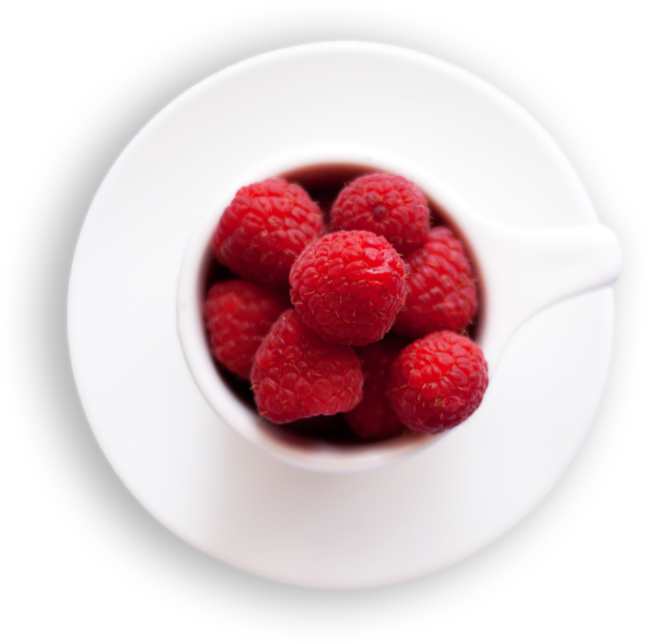
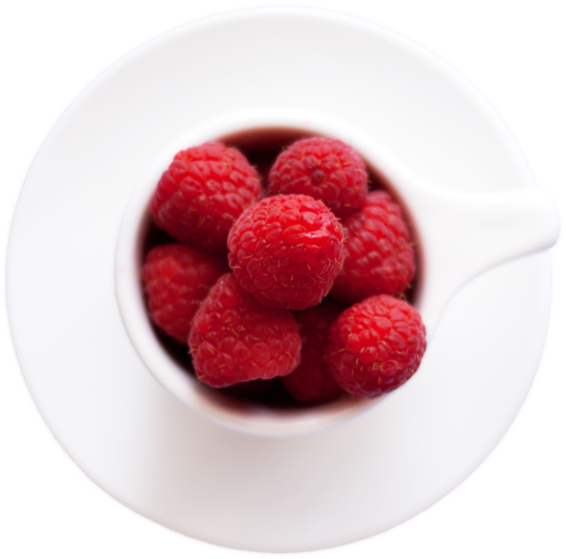
add-section-subscribe-us

diff --git a/index.html b/index.html
@@ -30,7 +30,7 @@
 						<li class="main-menu__item"><a class="main-menu__link" href="#about-us">About</a></li>
 						<li class="main-menu__item"><a class="main-menu__link" href="#service">Services</a></li>
 						<li class="main-menu__item"><a class="main-menu__link" href="#gallery">Gallery</a></li>
-						<li class="main-menu__item"><a class="main-menu__link" href="#">Blog</a></li>
+						<li class="main-menu__item"><a class="main-menu__link" href="#subscribe">Blog</a></li>
 						<li class="main-menu__item"><a class="main-menu__link" href="#">Contact</a></li>
 					</ul>
 				</div>
@@ -53,14 +53,14 @@
 						<div class="about-us__content">
 							<h2 class="about-us__title">About Us</h2>
 							<p class="about-us__text">Abore Cahee magna aliqua. Ut enim ad minim veniam, quis nostrud exercitation ullamco laboris nisi ut aliquip ex ea commodo consequat. Duis aute irure dolor in reprehenderit in voluptate velit esse cillum.
-							<p class="about-us__text">Nim id est laborum. Sed ut perspiciatis unde omnis iste natus error sit voluptatem accusantium doloremque laudantium, totam rem aperiam, eaque ipsa quae ab illo inventore.</p>
+								<p class="about-us__text">Nim id est laborum. Sed ut perspiciatis unde omnis iste natus error sit voluptatem accusantium doloremque laudantium, totam rem aperiam, eaque ipsa quae ab illo inventore.</p>
+							</div>
 						</div>
 					</div>
-				</div>
-			</section>	
+				</section>	
 
-			<section id="service" class="service">
-				<div class="container"> 
+				<section id="service" class="service">
+					<div class="container"> 
 						<div class="service__row">
 							<div class="service__item">
 								<button class="button service__button">
@@ -86,26 +86,37 @@
 							</div>
 						</div>
 					</div>
-			</section>
+				</section>
 
-			<section id="gallery" class="gallery">
-				<div class="container">
-				<h2 class="gallery__title">Gallery</h2>
-				<p class="gallery__lead">Consectetur adipisicing elit, sed do eiusmod tempor incididunt ut labore et dolore magna aliqua. Ut enim ad minim veniam, quis nostrud exercitation ullamco laboris nisi ut aliquip ex ea commodo consequat.</p>
-				<div class="gallery-wrap">
-					<div class="gallery-wrap__row">
-						<div class="gallery-wrap__img width-8-12"><img class="img-responsive" src="img/img.png" alt="peach"></div>
-						<div class="gallery-wrap__img width-4-12"><img class="img-responsive" src="img/img2.png" alt="bilberry"></div>
-						<div class="gallery-wrap__img width-1-3"><img class="img-responsive" src="img/img3.png" alt="blackberry"></div>
+				<section id="gallery" class="gallery">
+					<div class="container">
+						<h2 class="gallery__title">Gallery</h2>
+						<p class="gallery__lead">Consectetur adipisicing elit, sed do eiusmod tempor incididunt ut labore et dolore magna aliqua. Ut enim ad minim veniam, quis nostrud exercitation ullamco laboris nisi ut aliquip ex ea commodo consequat.</p>
+						<div class="gallery-wrap">
+							<div class="gallery-wrap__row">
+								<div class="gallery-wrap__img width-8-12"><img class="img-responsive" src="img/img.png" alt="peach"></div>
+								<div class="gallery-wrap__img width-4-12"><img class="img-responsive" src="img/img2.png" alt="bilberry"></div>
+								<div class="gallery-wrap__img width-1-3"><img class="img-responsive" src="img/img3.png" alt="blackberry"></div>
+							</div>
+							<div class="gallery-wrap__row">
+								<img class="img-responsive gallery-wrap__img width-6-12" src="img/img4.png" alt="muesli">
+								<img class="img-responsive gallery-wrap__img width-6-12" src="img/img5.png" alt="persimmonм">
+							</div>
+						</div>
+						<button class="button button--grey">View more</button>
 					</div>
-					<div class="gallery-wrap__row">
-						<img class="img-responsive gallery-wrap__img width-6-12" src="img/img4.png" alt="muesli">
-						<img class="img-responsive gallery-wrap__img width-6-12" src="img/img5.png" alt="persimmonм">
+				</section>
+				<section id="subscribe" class="subscribe-us">
+					<div class="container">
+						<h2 class="subscribe-us__title">Subscribe to us</h2>
+						<p class="subscribe-us__desc">Dolor sit amet, consectetur adipisicing elit, sed do eiusmod tempor incididunt ut labore et dolore magna aliqua. Ut enim ad minim veniam.</p>
+						<form class="form-subscribe-us" action="#" method="get">
+							<input class="form-subscribe-us__field" type="email" name="email" value placeholder="Your email address..." required>
+							<button class="button form-subscribe-us__button">Subscribe</button>
+						</form>
+
 					</div>
-				</div>
-				<button class="button button--grey">View more</button>
-				</div>
-			</section>	
+				</section>	
 			</main>
 			<footer class="footer">
 				<div class="container">

diff --git a/css/style.css b/css/style.css
@@ -205,7 +205,7 @@ h1, h2, h3, h4, h5, h6, p {
 
 .about-us__img {
 	flex: 0 1 600px;
-	margin-left: -40px;
+	filter: drop-shadow(-20px 7px 50px rgba(0,0,0,0.3));
 }
 
 .img-responsive {
@@ -369,6 +369,60 @@ h1, h2, h3, h4, h5, h6, p {
 }
 
 .button--grey:active {
+	background-color: red;
+}
+
+.subscribe-us {
+	background-image: url('../img/bg.png');
+	background-repeat: no-repeat;
+	background-position: center center;
+	padding: 130px 0 150px;
+}
+
+.subscribe-us__title {
+	font-size: 40px;
+	text-transform: capitalize;
+	margin-bottom: 20px;
+}
+
+.subscribe-us__desc {
+	max-width: 545px;
+	margin-bottom: 25px;
+}
+
+.form-subscribe-us {
+	display: flex;
+	flex-wrap: wrap;
+}
+
+.form-subscribe-us__field {
+	padding: 14px;
+	margin-right: 30px;
+	font-size: 15px;
+	flex-basis: 570px;
+	flex-grow: 0;
+	flex-shrink: 1;
+}
+
+.form-subscribe-us__button {
+	background-color: #96b92c;
+	flex-basis: 170px;
+	flex-grow: 0;
+	flex-shrink: 1;
+	min-width: 170px;
+	box-shadow: 0 2px 5px 2px rgba(0,0,0,0.5);
+}
+
+.form-subscribe-us__button:focus {
+	border: 2px solid #000;
+}
+
+.form-subscribe-us__button:hover {
+	background-color: #fff;
+	color: #96b92c;
+}
+
+.form-subscribe-us__button:active {
 	background-color: red;
 }
 
